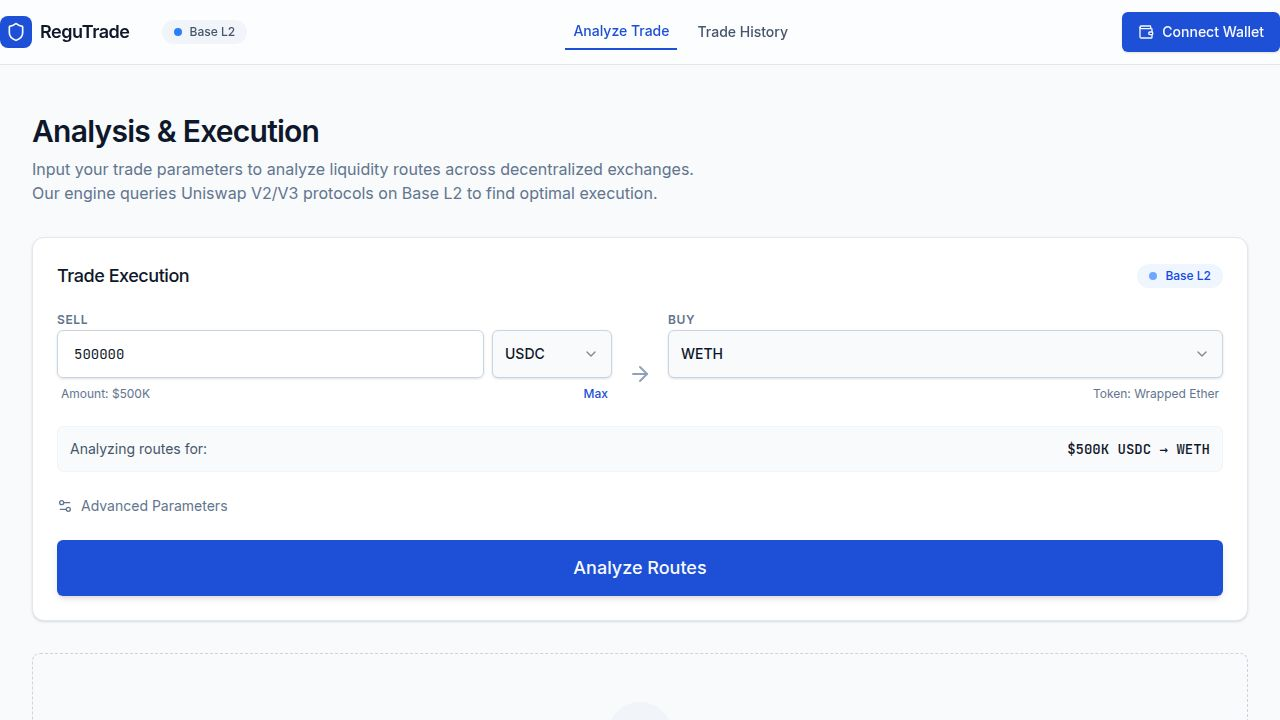
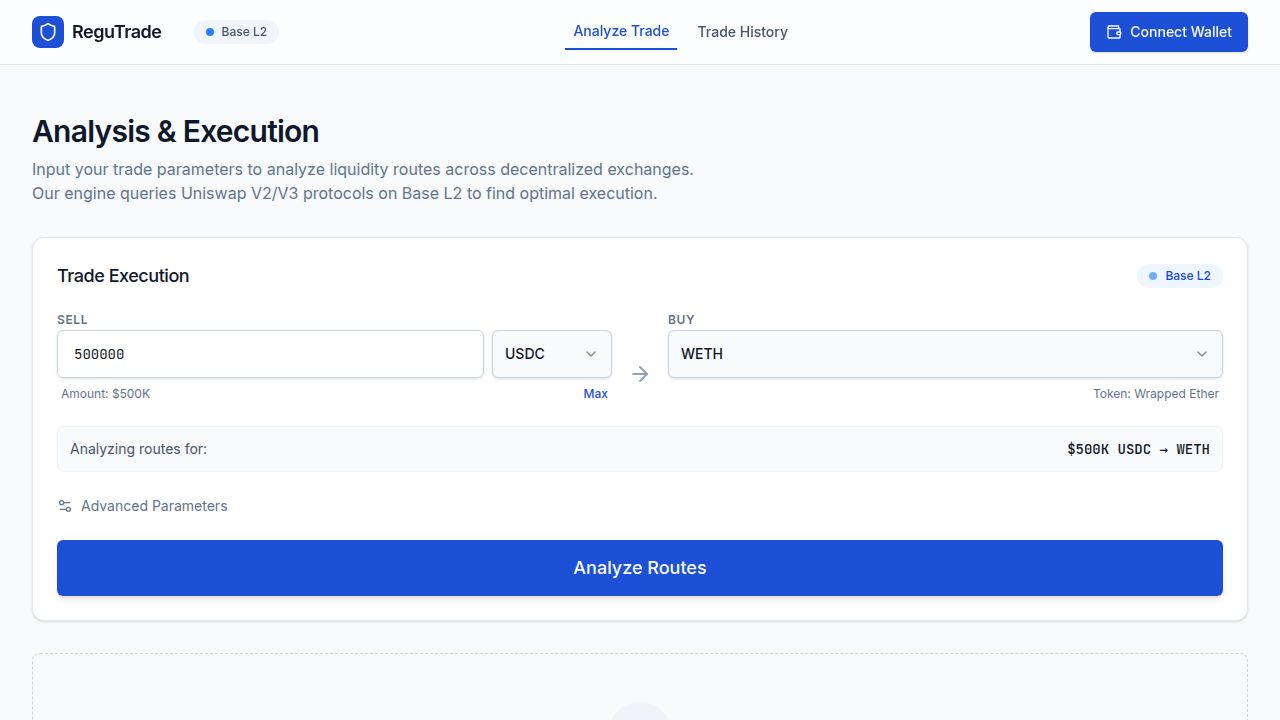
Streamline token support and improve ETH swap messaging
Remove support for DAI, USDbC, cbETH, LINK, and AAVE tokens, and update the UI to inform users about the internal use of WETH for ETH swaps.

Replit-Commit-Author: Agent
Replit-Commit-Session-Id: d33a0c0c-a9b2-4ca4-9824-e56b1349594d
Replit-Commit-Checkpoint-Type: intermediate_checkpoint
Replit-Commit-Event-Id: 9f825512-48e9-4a5b-a35a-831cb2c0ccf9
Replit-Commit-Screenshot-Url: https://storage.googleapis.com/screenshot-production-us-central1/54707ade-a78d-47e6-98b0-d010341376dd/d33a0c0c-a9b2-4ca4-9824-e56b1349594d/aczi8VX
Replit-Helium-Checkpoint-Created: true

Changed region(s): [[0.0, 0.0, 0.2188, 0.0917], [0.8438, 0.0, 1.0, 0.0917]]

diff --git a/shared/tokens.ts b/shared/tokens.ts
@@ -12,7 +12,7 @@ export interface Token {
   logoURI?: string;
 }
 
-// Official Base L2 token addresses
+// Official Base L2 token addresses - Core tokens only
 export const TOKENS: Record<string, Token> = {
   ETH: {
     symbol: "ETH",
@@ -32,36 +32,6 @@ export const TOKENS: Record<string, Token> = {
     address: "0x833589fCD6eDb6E08f4c7C32D4f71b54bdA02913",
     decimals: 6,
   },
-  USDbC: {
-    symbol: "USDbC",
-    name: "USD Base Coin (Bridged)",
-    address: "0xd9aAEc86B65D86f6A7B5B1b0c42FFA531710b6CA",
-    decimals: 6,
-  },
-  DAI: {
-    symbol: "DAI",
-    name: "Dai Stablecoin",
-    address: "0x50c5725949A6F0c72E6C4a641F24049A917DB0Cb",
-    decimals: 18,
-  },
-  cbETH: {
-    symbol: "cbETH",
-    name: "Coinbase Wrapped Staked ETH",
-    address: "0x2Ae3F1Ec7F1F5012CFEab0185bfc7aa3cf0DEc22",
-    decimals: 18,
-  },
-  LINK: {
-    symbol: "LINK",
-    name: "Chainlink",
-    address: "0x88Fb150BDc53A65fe94Dea0c9BA0a6dAf8C6e196",
-    decimals: 18,
-  },
-  AAVE: {
-    symbol: "AAVE",
-    name: "Aave",
-    address: "0x63706e401c06ac8513145b7687a14804d17f814b",
-    decimals: 18,
-  },
 };
 
 // Supported trading pairs for the platform
@@ -73,7 +43,7 @@ export interface TokenPair {
 }
 
 export const TOKEN_PAIRS: TokenPair[] = [
-  // Stablecoin to ETH pairs
+  // USDC to ETH/WETH pairs
   {
     id: "usdc-weth",
     from: TOKENS.USDC,
@@ -86,25 +56,7 @@ export const TOKEN_PAIRS: TokenPair[] = [
     to: TOKENS.ETH,
     label: "USDC -> ETH",
   },
-  {
-    id: "usdc-cbeth",
-    from: TOKENS.USDC,
-    to: TOKENS.cbETH,
-    label: "USDC -> cbETH",
-  },
-  {
-    id: "dai-weth",
-    from: TOKENS.DAI,
-    to: TOKENS.WETH,
-    label: "DAI -> WETH",
-  },
-  {
-    id: "usdbc-weth",
-    from: TOKENS.USDbC,
-    to: TOKENS.WETH,
-    label: "USDbC -> WETH",
-  },
-  // ETH to stablecoin pairs
+  // ETH/WETH to USDC pairs
   {
     id: "weth-usdc",
     from: TOKENS.WETH,
@@ -116,31 +68,6 @@ export const TOKEN_PAIRS: TokenPair[] = [
     from: TOKENS.ETH,
     to: TOKENS.USDC,
     label: "ETH -> USDC",
-  },
-  // DeFi token pairs (verified official tokens on Base L2)
-  {
-    id: "usdc-link",
-    from: TOKENS.USDC,
-    to: TOKENS.LINK,
-    label: "USDC -> LINK",
-  },
-  {
-    id: "usdc-aave",
-    from: TOKENS.USDC,
-    to: TOKENS.AAVE,
-    label: "USDC -> AAVE",
-  },
-  {
-    id: "weth-link",
-    from: TOKENS.WETH,
-    to: TOKENS.LINK,
-    label: "WETH -> LINK",
-  },
-  {
-    id: "weth-aave",
-    from: TOKENS.WETH,
-    to: TOKENS.AAVE,
-    label: "WETH -> AAVE",
   },
 ];
 

diff --git a/client/src/lib/swap.ts b/client/src/lib/swap.ts
@@ -78,20 +78,11 @@ export interface SwapTransaction {
   value: bigint;
 }
 
-// Additional token addresses on Base L2
-const LINK_ADDRESS = "0x88Fb150BDc53A65fe94Dea0c9BA0a6dAf8C6e196".toLowerCase();
-const AAVE_ADDRESS = "0x63706e401c06ac8513145b7687a14804d17f814b".toLowerCase();
-
-// Get token decimals
+// Get token decimals for core tokens (USDC, ETH, WETH)
 export function getTokenDecimals(address: Address): number {
   const decimalsMap: Record<string, number> = {
     [TOKEN_ADDRESSES.USDC.toLowerCase()]: 6,
-    [TOKEN_ADDRESSES.USDbC.toLowerCase()]: 6,
     [TOKEN_ADDRESSES.WETH.toLowerCase()]: 18,
-    [TOKEN_ADDRESSES.DAI.toLowerCase()]: 18,
-    [TOKEN_ADDRESSES.cbETH.toLowerCase()]: 18,
-    [LINK_ADDRESS]: 18,
-    [AAVE_ADDRESS]: 18,
   };
   return decimalsMap[address.toLowerCase()] || 18;
 }
@@ -169,23 +160,16 @@ export function calculateMinOutput(
   return minOutput.toFixed(8);
 }
 
-// Get the appropriate fee tier based on token pair
+// Get the appropriate fee tier based on token pair (core tokens only: USDC, ETH, WETH)
 export function getFeeTier(tokenIn: Address, tokenOut: Address): number {
   const stablecoins = [
     TOKEN_ADDRESSES.USDC.toLowerCase(),
-    TOKEN_ADDRESSES.USDbC.toLowerCase(),
-    TOKEN_ADDRESSES.DAI.toLowerCase(),
   ];
   
   const isStablecoinIn = stablecoins.includes(tokenIn.toLowerCase());
   const isStablecoinOut = stablecoins.includes(tokenOut.toLowerCase());
   
-  // Stablecoin to stablecoin: 100 (0.01%)
-  if (isStablecoinIn && isStablecoinOut) {
-    return 100;
-  }
-  
-  // Stablecoin to ETH derivatives: 500 (0.05%) - most liquid
+  // USDC <-> ETH/WETH: 500 (0.05%) - most liquid tier
   if (isStablecoinIn || isStablecoinOut) {
     return 500;
   }

diff --git a/client/src/components/dashboard/TradeInput.tsx b/client/src/components/dashboard/TradeInput.tsx
@@ -31,15 +31,10 @@ export default function TradeInput({ onAnalyze }: TradeInputProps) {
     USDC: { symbol: "USDC", name: "USD Coin" },
     WETH: { symbol: "WETH", name: "Wrapped Ether" },
     ETH: { symbol: "ETH", name: "Ether" },
-    DAI: { symbol: "DAI", name: "Dai Stablecoin" },
-    USDbC: { symbol: "USDbC", name: "USD Base Coin" },
-    cbETH: { symbol: "cbETH", name: "Coinbase Staked ETH" },
-    LINK: { symbol: "LINK", name: "Chainlink" },
-    AAVE: { symbol: "AAVE", name: "Aave" },
   };
 
-  const sellTokens = ["USDC", "DAI", "USDbC", "WETH", "ETH"];
-  const buyTokens = ["WETH", "ETH", "cbETH", "USDC", "LINK", "AAVE"];
+  const sellTokens = ["USDC", "WETH", "ETH"];
+  const buyTokens = ["WETH", "ETH", "USDC"];
 
   const handleAnalyze = async () => {
     setIsAnalyzing(true);
@@ -152,6 +147,13 @@ export default function TradeInput({ onAnalyze }: TradeInputProps) {
             </span>
           </div>
         </div>
+
+        {/* ETH/WETH explanation when relevant */}
+        {(buyToken === "ETH" || sellToken === "ETH") && (
+          <div className="rounded-md bg-blue-50 p-3 text-sm text-blue-700 border border-blue-100">
+            <span className="font-medium">Note:</span> ETH swaps use WETH (Wrapped Ether) internally on Uniswap. WETH is 1:1 with ETH and can be unwrapped to native ETH at any time.
+          </div>
+        )}
 
         {/* Advanced Settings Toggle */}
         <div className="flex items-center gap-2 text-sm text-slate-500 cursor-pointer hover:text-slate-900 transition-colors w-max">

diff --git a/server/uniswap.ts b/server/uniswap.ts
@@ -64,16 +64,14 @@ async function generateQuotesWithGraphPricing(
     priceSource = "The Graph (Live)";
     console.log(`Using Graph pricing: 1 ${tokenIn.symbol} = ${baseRate.toFixed(6)} ${tokenOut.symbol}`);
   } else {
-    // Fallback to hardcoded rates
-    if (tokenIn.symbol === "USDC" || tokenIn.symbol === "USDbC" || tokenIn.symbol === "DAI") {
-      if (tokenOut.symbol === "WETH") {
+    // Fallback to hardcoded rates for core tokens: USDC, ETH, WETH
+    if (tokenIn.symbol === "USDC") {
+      if (tokenOut.symbol === "WETH" || tokenOut.symbol === "ETH") {
         baseRate = 1 / ethPrice;
-      } else if (tokenOut.symbol === "cbETH") {
-        baseRate = 1 / (ethPrice * 1.07); // cbETH trades at ~7% premium
       } else {
         baseRate = 1;
       }
-    } else if (tokenIn.symbol === "WETH") {
+    } else if (tokenIn.symbol === "WETH" || tokenIn.symbol === "ETH") {
       baseRate = ethPrice;
     } else {
       baseRate = 1;
@@ -153,14 +151,12 @@ function calculateNetValue(
 ): string {
   const outputAmount = amountIn * rate * efficiency;
   
-  // Convert output to USD
+  // Convert output to USD (core tokens: USDC, ETH, WETH)
   let outputUSD: number;
-  if (tokenOutSymbol === "WETH") {
+  if (tokenOutSymbol === "WETH" || tokenOutSymbol === "ETH") {
     outputUSD = outputAmount * ethPrice;
-  } else if (tokenOutSymbol === "cbETH") {
-    outputUSD = outputAmount * ethPrice * 1.07;
   } else {
-    // Stablecoins
+    // USDC and other stablecoins
     outputUSD = outputAmount;
   }
   

diff --git a/client/src/components/dashboard/ExecutionModal.tsx b/client/src/components/dashboard/ExecutionModal.tsx
@@ -64,11 +64,6 @@ export default function ExecutionModal({ isOpen, onOpenChange, analysisData, sel
       USDC: TOKEN_ADDRESSES.USDC,
       WETH: TOKEN_ADDRESSES.WETH,
       ETH: TOKEN_ADDRESSES.WETH, // Native ETH uses WETH for Uniswap V3 swaps
-      DAI: TOKEN_ADDRESSES.DAI,
-      USDBC: TOKEN_ADDRESSES.USDbC, // Uppercase key to match normalization
-      CBETH: TOKEN_ADDRESSES.cbETH, // Uppercase key to match normalization
-      LINK: "0x88Fb150BDc53A65fe94Dea0c9BA0a6dAf8C6e196" as Address,
-      AAVE: "0x63706e401c06ac8513145b7687a14804d17f814b" as Address,
     };
     
     const address = addresses[normalizedSymbol];

diff --git a/server/routes.ts b/server/routes.ts
@@ -57,10 +57,8 @@ export async function registerRoutes(
         let outputUSD: number;
         if (tokenOut.symbol === 'WETH' || tokenOut.symbol === 'ETH') {
           outputUSD = amountOutNum * ethPriceUSD;
-        } else if (tokenOut.symbol === 'cbETH') {
-          outputUSD = amountOutNum * ethPriceUSD * 1.05; // cbETH premium
         } else {
-          outputUSD = amountOutNum; // Stablecoins
+          outputUSD = amountOutNum; // Stablecoins (USDC)
         }
 
         // Parse gas cost (remove $ prefix)

diff --git a/client/src/lib/wagmi.ts b/client/src/lib/wagmi.ts
@@ -18,9 +18,6 @@ export const wagmiConfig = createConfig({
 export const TOKEN_ADDRESSES = {
   USDC: "0x833589fCD6eDb6E08f4c7C32D4f71b54bdA02913" as `0x${string}`,
   WETH: "0x4200000000000000000000000000000000000006" as `0x${string}`,
-  DAI: "0x50c5725949A6F0c72E6C4a641F24049A917DB0Cb" as `0x${string}`,
-  USDbC: "0xd9aAEc86B65D86f6A7B5B1b0c42FFA531710b6CA" as `0x${string}`,
-  cbETH: "0x2Ae3F1Ec7F1F5012CFEab0185bfc7aa3cf0DEc22" as `0x${string}`,
 } as const;
 
 export const erc20Abi = [

diff --git a/server/graph.ts b/server/graph.ts
@@ -191,14 +191,11 @@ export async function getTokenPriceUSD(symbol: string): Promise<number> {
     return parseFloat(data.tokens[symbol].priceUSD);
   }
   
-  // Fallback prices
+  // Fallback prices for core tokens
   const fallbackPrices: Record<string, number> = {
     ETH: 1850,
     WETH: 1850,
     USDC: 1,
-    USDbC: 1,
-    DAI: 1,
-    cbETH: 1980,
   };
   
   return fallbackPrices[symbol] || 0;
